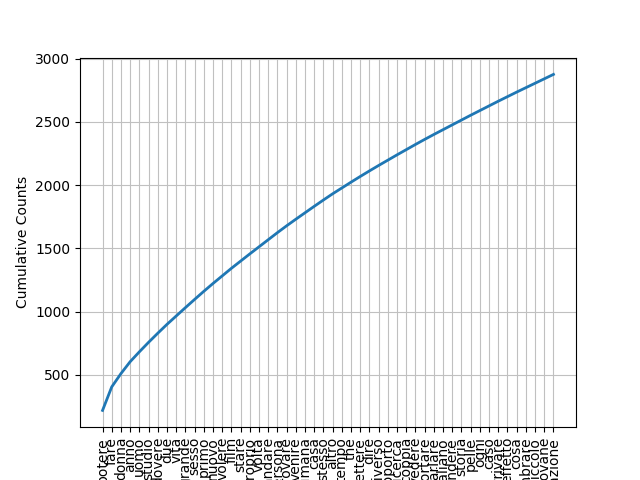
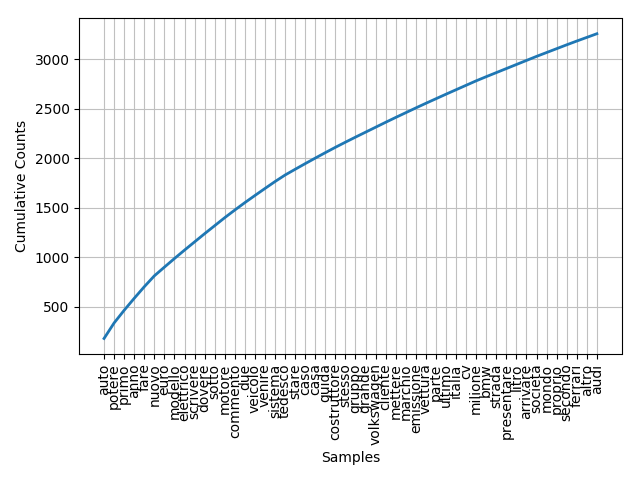
better plot

Changed region(s): [[0.0, 0.0312, 0.9375, 1.0], [0.0625, 0.0938, 0.125, 0.1562], [0.0625, 0.75, 0.0938, 0.8125]]

diff --git a/keyword_extractor.py b/keyword_extractor.py
@@ -66,6 +66,6 @@ def freqlist(doc_clean):
 def freqplot(words):
     freq_dist_nltk = nltk.FreqDist(words)
     freq_dist_nltk.plot(FREQLIST_PLOT_NUM, cumulative=True)
-    pyplot.draw()
+    pyplot.tight_layout()
     pyplot.savefig(FREQLIST_PLOT_FILENAME)
     

diff --git a/README.md b/README.md
@@ -39,5 +39,5 @@ myhapaxlist=hapax(doc_clean)
 myfreqlist=freqlist(myhapaxlist)
 
 #Print plot
-freqplot(doc_clean)
+freqplot(myhapaxlist)
 ```
